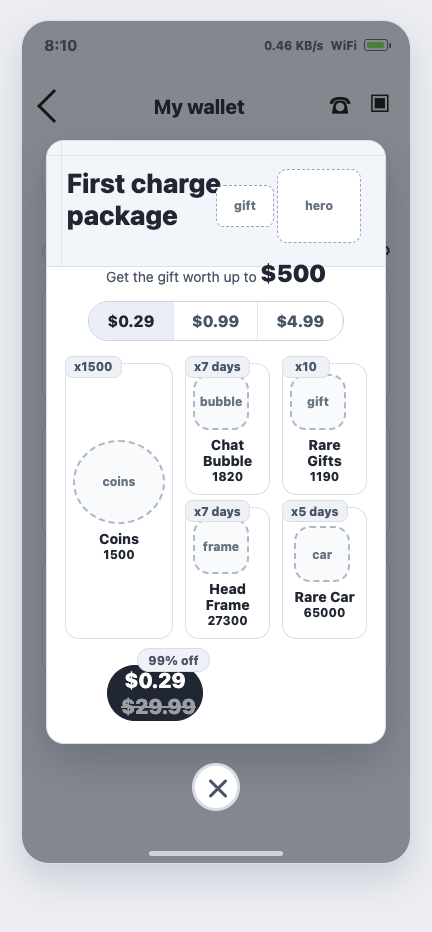
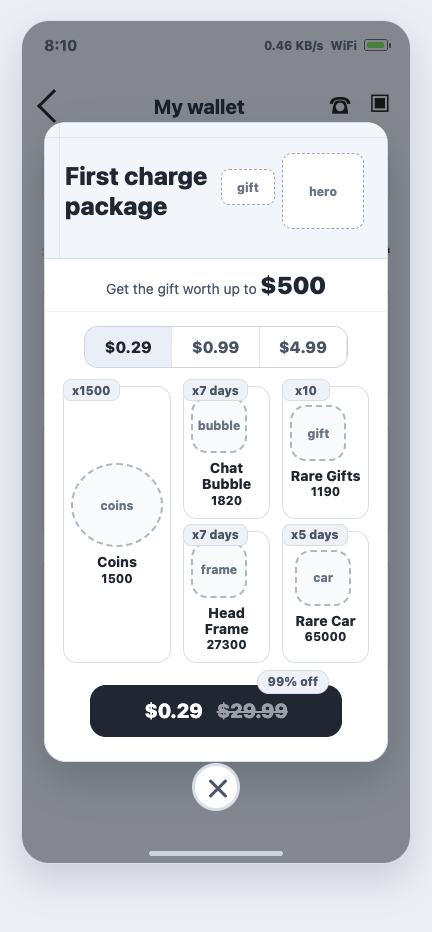
整理：新建风控文件夹，归档风控相关文档

diff --git a/首充活动/wechill-first-recharge-prototype.html b/首充活动/wechill-first-recharge-prototype.html
@@ -1016,6 +1016,88 @@
     .phone[data-wireframe="true"] .home-indicator {
       background: #cbd3df;
     }
+
+    .phone[data-wireframe="true"][data-screen="popup"] .popup {
+      width: 344px;
+      padding: 0 18px 24px;
+      border-radius: 22px;
+    }
+
+    .phone[data-wireframe="true"][data-screen="popup"] .popup-hero {
+      height: 136px;
+      padding: 25px 20px;
+      display: grid;
+      grid-template-columns: 1fr 124px;
+      align-items: center;
+      gap: 12px;
+    }
+
+    .phone[data-wireframe="true"][data-screen="popup"] .popup-title {
+      width: auto;
+      font-size: 25px;
+      line-height: 1.18;
+    }
+
+    .phone[data-wireframe="true"][data-screen="popup"] .gift {
+      right: 112px;
+      top: 46px;
+      width: 54px;
+      height: 36px;
+      z-index: 4;
+    }
+
+    .phone[data-wireframe="true"][data-screen="popup"] .mascot {
+      right: 23px;
+      top: 30px;
+      width: 82px;
+      height: 76px;
+    }
+
+    .phone[data-wireframe="true"][data-screen="popup"] .popup-sub {
+      margin: 0 -18px;
+      padding: 12px 18px;
+      border-bottom: 1px solid #edf1f6;
+      background: #fff;
+    }
+
+    .phone[data-wireframe="true"][data-screen="popup"] .tiers {
+      width: 264px;
+      height: 42px;
+      margin: 14px auto 18px;
+      border-radius: 14px;
+    }
+
+    .phone[data-wireframe="true"][data-screen="popup"] .reward {
+      min-height: 100px;
+      border-radius: 14px;
+    }
+
+    .phone[data-wireframe="true"][data-screen="popup"] .reward.big {
+      min-height: 214px;
+    }
+
+    .phone[data-wireframe="true"][data-screen="popup"] .reward-name {
+      font-size: 14px;
+    }
+
+    .phone[data-wireframe="true"][data-screen="popup"] .buy {
+      width: 252px;
+      height: 52px;
+      margin: 22px auto 0;
+      display: flex;
+      align-items: center;
+      justify-content: center;
+      gap: 7px;
+      border-radius: 16px;
+      font-size: 20px;
+    }
+
+    .phone[data-wireframe="true"][data-screen="popup"] .discount {
+      top: -16px;
+      right: 12px;
+      height: 24px;
+      border-radius: 999px;
+    }
   </style>
 </head>
 <body>